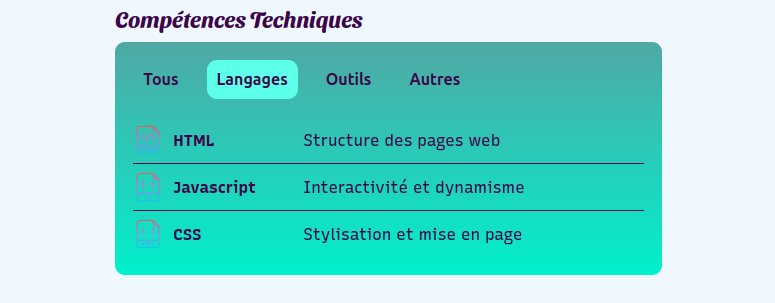
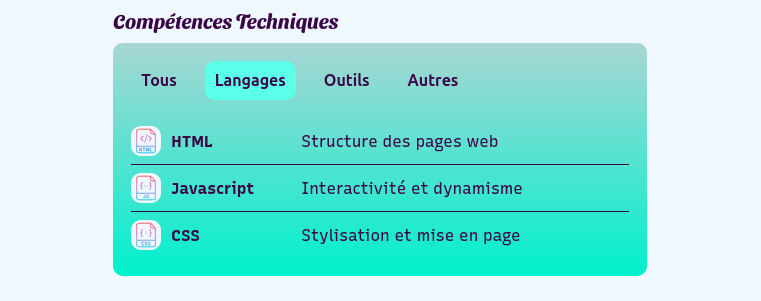
menu nav en <500 ajuster- rajout de description plus longue-page contact rajout de liens sur nos conditions

diff --git a/billaldev/html/contact.html b/billaldev/html/contact.html
@@ -5,9 +5,12 @@
     <!-- Configuration responsive des vues mobiles -->
     <meta name="viewport" content="width=device-width, initial-scale=1.0" />
     <title>Contact - BillalDev</title>
-    <meta name="description" content="Formulaire de contac" />
+    <meta
+      name="description"
+      content="Formulaire de contact — envoyez-moi un message pour un devis, une collaboration ou une question technique. Réponse rapide et professionnelle."
+    />
     <!-- Canonical : indique la version officielle de la page -->
-    <link rel="canonical" href="https://www.billaldev.com/contact" />
+    <link rel="canonical" href="https://codephenix.fr/billaldev/contact.html" />
     <!-- Favicon , double liens pour ameliorer la compatibilité avec tous les navigateurs  -->
     <link rel="icon" type="image/x-icon" href="../assets/favicon/logo.ico" />
     <link rel="shortcut icon" type="image/x-icon" href="../assets/favicon/logo.ico" />
@@ -71,11 +74,16 @@
 
           <div class="form-group checkbox-group">
             <input type="checkbox" id="terms" name="terms" required />
-            <label for="terms"
-              >En cochant cette case vous acceptez nos conditions d'utilisation.<span class="required">*</span></label
-            >
+            <label for="terms">
+              <p>
+                En cochant cette case vous acceptez
+                <em><a href="privacy.html" class="footer-link">nos conditions d'utilisation.</a></em
+                ><span class="required">*</span>
+              </p>
+            </label>
           </div>
 
+          <!-- En cochant cette case vous acceptez nos conditions d'utilisation.<span class="required">*</span></label -->
           <!-- Emplacement pour hCaptcha -->
           <div class="form-group">
             <div class="h-captcha" data-sitekey="d772f950-0f8e-46b0-830a-efd69d24bac2"></div>

diff --git a/billaldev/assets/test.js b/billaldev/assets/test.js
@@ -1,0 +1,36 @@
+const prenomPattern = /^[a-zA-ZÀ-ÿ\s-]+$/;
+const nomPattern = /^[a-zA-ZÀ-ÿ\s-]+$/;
+const mailPattern = /^[\w-\.]+@([\w-]+\.)+[\w-]{2,4}$/;
+
+// Validation du prénom
+prenom.addEventListener("input", () => {
+  if (!prenomPattern.test(prenom.value)) {
+    prenomError.style.display = "block";
+  } else {
+    prenomError.style.display = "none";
+  }
+});
+
+// Vérification complète à la soumission
+form.addEventListener("submit", (event) => {
+  const terms = document.querySelector("#terms").checked;
+  const hcaptchaResponse = document.querySelector('textarea[name="h-captcha-response"]')?.value.trim() || "";
+  let formulaireValide = true;
+
+  if (!terms) {
+    alert("Veuillez accepter les conditions d'utilisation.");
+    formulaireValide = false;
+  }
+
+  if (!hcaptchaResponse) {
+    alert("Veuillez valider le captcha pour continuer.");
+    formulaireValide = false;
+  }
+
+  if (!formulaireValide) event.preventDefault();
+  else {
+    event.preventDefault();
+    alert("✅ Votre message a été envoyé avec succès !");
+    form.reset();
+  }
+});

diff --git a/billaldev/html/index.html b/billaldev/html/index.html
@@ -4,11 +4,12 @@
     <meta charset="UTF-8" />
     <!-- Configuration responsive des vues mobiles -->
     <meta name="viewport" content="width=device-width, initial-scale=1.0" />
+    <title>Accueil - BillalDev</title>
     <meta
       name="description"
       content="Portfolio de Billal Amghar, développeur web spécialisé en front-end. Découvrez mes compétences en HTML, CSS, JavaScript et plus."
     />
-    <title>Accueil - BillalDev</title>
+    <link rel="canonical" href="https://codephenix.fr/billaldev/index.html" />
     <!-- Favicon , double liens pour ameliorer la compatibilité avec tous les navigateurs  -->
     <link rel="icon" type="image/x-icon" href="../assets/favicon/logo.ico" />
     <link rel="shortcut icon" type="image/x-icon" href="../assets/favicon/logo.ico" />

diff --git a/billaldev/html/legal.html b/billaldev/html/legal.html
@@ -5,6 +5,11 @@
     <!-- Configuration responsive des vues mobiles -->
     <meta name="viewport" content="width=device-width, initial-scale=1.0" />
     <title>Mentions légales - BillalDev</title>
+    <meta
+      name="description"
+      content="Mentions légales du site BillalDev : identification de l'éditeur, hébergement, propriété intellectuelle et traitement des données personnelles (RGPD)."
+    />
+    <link rel="canonical" href="https://codephenix.fr/billaldev/legal.html" />
     <!-- Favicon , double liens pour ameliorer la compatibilité avec tous les navigateurs  -->
     <link rel="icon" type="image/x-icon" href="../assets/favicon/logo.ico" />
     <link rel="shortcut icon" type="image/x-icon" href="../assets/favicon/logo.ico" />

diff --git a/billaldev/html/privacy.html b/billaldev/html/privacy.html
@@ -5,6 +5,12 @@
     <!-- Configuration responsive des vues mobiles -->
     <meta name="viewport" content="width=device-width, initial-scale=1.0" />
     <title>Confidentialité - BillalDev</title>
+
+    <meta
+      name="description"
+      content="Politique de confidentialité de BillalDev : informations collectées, finalités, partage, sécurité, droits RGPD et contact pour exercer vos droits."
+    />
+    <link rel="canonical" href="https://codephenix.fr/billaldev/privacy.html" />
     <!-- Favicon , double liens pour ameliorer la compatibilité avec tous les navigateurs  -->
     <link rel="icon" type="image/x-icon" href="../assets/favicon/logo.ico" />
     <link rel="shortcut icon" type="image/x-icon" href="../assets/favicon/logo.ico" />

diff --git a/billaldev/css/style.css b/billaldev/css/style.css
@@ -36,9 +36,9 @@
     /* Couleur pour les textes */
     --color-text: #3B0647;
     /* Dégradé du haut vers le bas (par défaut) */
-    --gradient-top-bottom: linear-gradient(to bottom, #50A8A4, #00F0CD);
+    --gradient-top-bottom: linear-gradient(to bottom, #a8d6d3, #00F0CD);
     /* Dégradé du bas vers le haut */
-    --gradient-bottom-top: linear-gradient(to top, #50A8A4, #00F0CD);
+    --gradient-bottom-top: linear-gradient(to top, #a8d6d3, #00F0CD);
     --menu-popup-bg: #808080d9;
     --color-button-bg: #5CFFE7;
     --color-button-valider: #00F0CD;

diff --git a/billaldev/css/header.css b/billaldev/css/header.css
@@ -47,7 +47,7 @@ header nav {
 .menu-horizontal {
     display: none;
     /* masqué par défaut */
-    gap: 30px;
+    gap: 15px;
     font-family: 'Sansita Swashed', Georgia, serif;
     font-size: 13px;
     font-weight: normal;
@@ -159,6 +159,7 @@ header nav {
 
 @media (min-width: 580px) {
     .menu-horizontal {
+        gap: 30px;
         font-size: 18px;
     }
 }

diff --git a/billaldev/css/index.css b/billaldev/css/index.css
@@ -110,6 +110,9 @@ main h1 {
     height: 30px;
     flex-shrink: 0;
     margin-right: 10px;
+    background-color: var(--color-body-bg);
+    padding: 2px;
+    border-radius: 10px;
 }
 
 .skill-title {

diff --git a/billaldev/assets/test.css b/billaldev/assets/test.css
@@ -1,0 +1,5 @@
+@media (min-width: 500px) {
+    main {
+        padding: 0 10% 30px;
+    }
+}

diff --git a/billaldev/assets/test.html b/billaldev/assets/test.html
@@ -1,0 +1,2 @@
+<h1>Contactez-moi</h1>
+<hr class="separator" />
